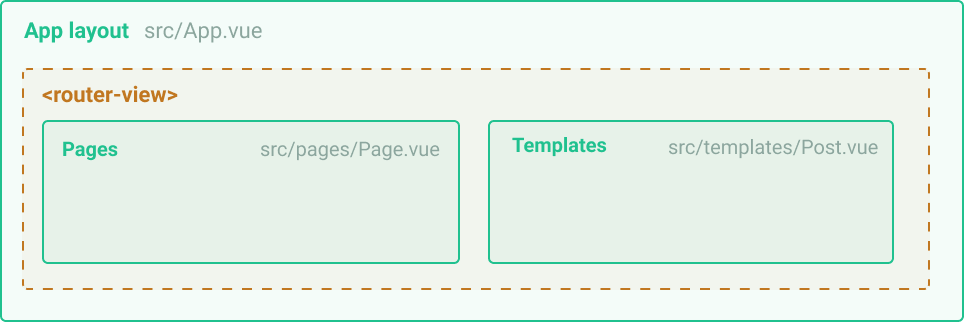
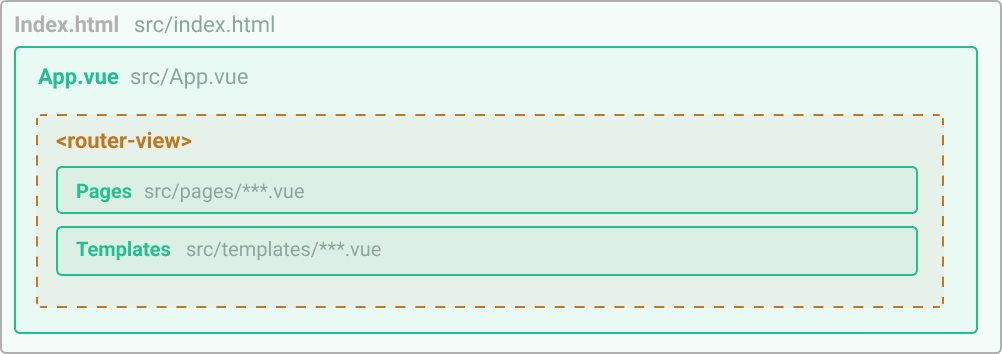
.

diff --git a/docs/layouts.md b/docs/layouts.md
@@ -1,21 +1,62 @@
-# Layout structure
-There are two kinds of layouts in Gridsome projects.
+# App structure
 
-1. **App layout** - The global layout that usually contains Header & footer.
-2. **Layout components** - Layout components are optional components used to wrap pages & templates. Usually contains sidebar, sub navigation etc.
+The App structure have two parts.
 
-## App layout
+2. **App.vue** - The global layout that usually contains Header & footer.
+1. **Index.html** - The file that mounts App.vue into `<body>`.
+
 
 ![App layout](./images/app-layout.png)
 
 
-**App layout is the component that wraps all content.** It usually contains components that are used across the site like **Header & Footer**. App layout requires a `<router-view>` component. This is where the content will be displayed.
+## App.vue
 
-App layout is located at `src/App.vue`.
+**App.vue is the component that wraps all content.** It usually contains components that are used across the site like **Header & Footer**. It requires a `<router-view>` component. This is where the content will be displayed.
 
-### Basic App layout
+
+### Basic App.vue
+
+```html
+<template>
+  <router-view />
+</template>
+
+<static-query>
+query App {
+  metadata {
+    siteName
+    siteDescription
+  }
+}
+</static-query>
+
+<script>
+export default {
+  metaInfo() {
+    return {
+      title: this.$static.metadata.siteName,
+      meta: [
+        {
+          key: 'description',
+          name: 'description',
+          content: this.$static.metadata.siteDescription
+        }
+      ]
+    }
+  }
+}
+</script>
+```
 
 ### Add page transition
+
+```html
+<template>
+  <transition>
+    <router-view />
+  </transition>
+</template>
+```
 
 ### Passing props
 
@@ -31,109 +72,18 @@ export default {
 </style>
 ```
 
-
-## Layout components
-
-![Layout components](./images/layout-component.png)
-
-**Layout components** are layouts that you can import per Page & Template. It usually contains things like a Sub Navigation or a Sidebar. **A layout component requires a `<slot>` component**. This is where the content coming from pages and templates will be inserted. Layouts components can have [multiple slots](#multiple-content-slots).
-
+## Index.html
+Gridsome adds **index.html** automatically and is not required in your project folder.
 
 ```html
-<!-- Layout -->
-<template>
-  <div>
-    <aside>
-      Sub Navigation
-    </aside>
-    <slot />
-  </div>
-</template>
-```
-
-
-### Import a layout component
-```html
-<!-- Page -->
-<template>
-  <SidebarNav>
-    Add page content here
-  </SidebarNav>
-</template>
-
-<script>
-import SidebarNav from '~/components/SidebarNav.vue'
-
-export default {
-  components: {
-    SidebarNav
-  }
-}
-</script>
-
-```
-
-### Passing Props
-Since layouts work like components, it is possible to pass Props to layouts. For example a page can look like this:
-
-
-```html
-<!-- Page -->
-<template>
-  <Layout :sidebar="true">
-    Add page content here
-  </Layout>
-</template>
-```
-
-This will pass a Prop to a layout with `sidebar = true`. In the **Layout component** this could look like this: 
-
-```html
-<!-- Layout -->
-<template>
-  <div>
-    <div class="main-content">
-      <slot />
-    </div>
-    <div v-if="sidebar">
-      Lets show the sidebar!
-    </div>
-  </div>
-</template>
-
-<script>
-export default {
-  props: ['sidebar']
-}
-</script>
-```
-
-### Multiple content slots
-To add multiple slots to a layout you need to name them. In this example we have added a sidebar slot that will only show if the page has sidebar content.
-
-```html
-<!-- Layout -->
-<template>
-  <div>
-    <slot /> <!-- Default slot  -->
-    <div class="sidebar" v-if="$slots.sidebar">
-      <slot name="sidebar" /> <!-- Sidebar slot  -->
-    </div>
-  </div>
-</template>
-```
-
-Pages can now add content to this slot like this:
-
-```html
-<!-- Page -->
-<template>
-  <Layout>
-    This is the default content
-
-    <template slot="sidebar">
-      This will be added to sidebar slot from the page
-    </template>
-  </Layout>
-</template>
+<!DOCTYPE html>
+<html ${htmlAttrs}>
+  <head>
+    ${head}
+  </head>
+  <body ${bodyAttrs}>
+    ${app}
+    ${scripts}
+  </body>
+</html>
 ```
